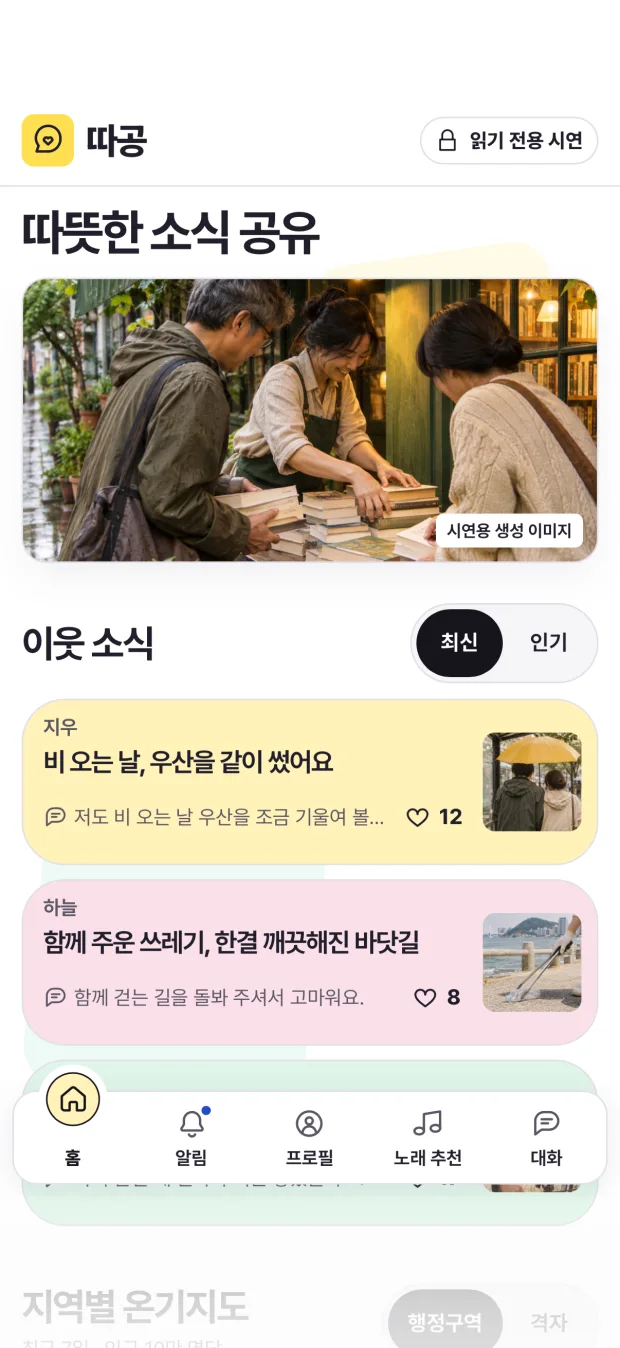
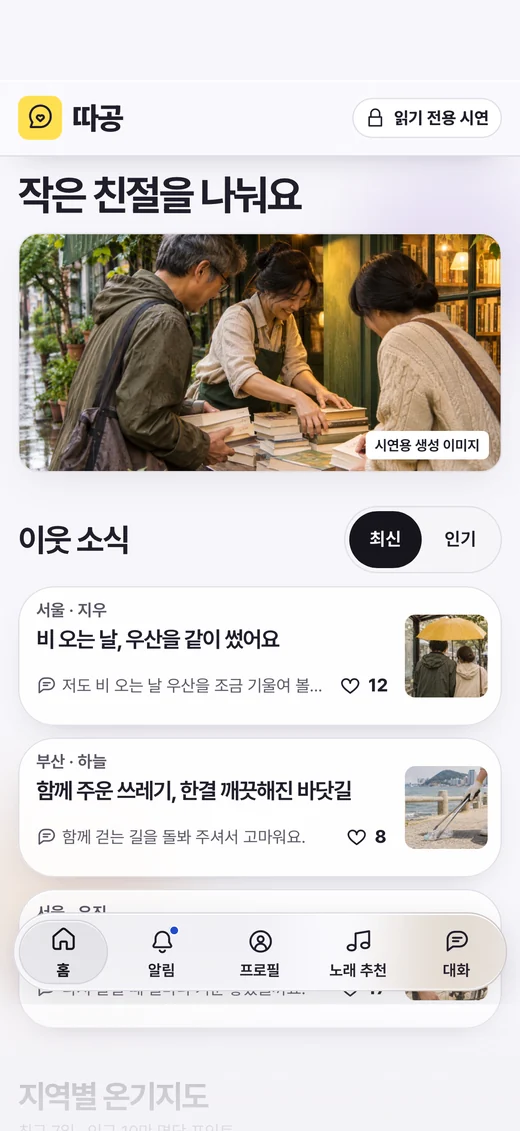
Refresh iPhone screenshots and document final release verification

diff --git a/docs/planning-report.md b/docs/planning-report.md
@@ -105,6 +105,7 @@
 - 로컬 브리지에 연결한 DOM 시험에서 차단·보류·실패 뒤 입력이 유지됐다. 승인 재시도에서는 요청과 게시가 각각 한 건이었고 서울 지도 수치는 0.03에서 0.04로 바뀌었다. 공개 정적 후보 `9c57557`의 익명 접속과 동일 번들의 5개 탭·16개 타일 탐색, 저장소 변경과 심사 요청 각각 0건도 확인했다.
 - 따공 후보 `236c3c5`의 iPhone 17 Pro 시뮬레이터 Safari에서 실제 Codex 승인과 차단을 확인했다. 승인된 글이 한 번 저장되어 서울 수치가 0.03에서 0.04로 바뀌었으며, 차단 뒤에는 입력과 피드·지도가 유지됐다.
 - 공개 후보 `3ff2fbc`는 iPhone 17 Pro Safari에서 홈 아래의 16개 행정경계, 격자 전환, 서울 소식 이동, 다섯 탭, 노래 검색과 외부 재생 링크를 재검증했다. 로컬에서는 실제 Codex 승인·차단, 승인 후 서울 수치 0.03→0.04, 노래 추천 글 승인·카드 반영을 확인했다. 독립 Chrome 검사에서 320px와 글자 200%의 가로 넘침이 없었고, 지도 이름과 숫자를 직접 눌러 대응 지역으로 이동했다.
+- 운영 후보 `64281ba`는 iPhone 17 Pro Safari에서 개나리색 행정경계 SVG, 다섯 탭, LP 꾸미기 미리보기와 브라우저 저장, 시연 프로필 글 세 편, 알림 네 건, 읽기 전용 예시 대화 여섯 개를 확인했다. 로컬에서는 대화가 일곱 개에서 멈췄고, 실제 Codex 승인 후 서울 적립값이 3P에서 4P로, 인구 보정값이 0.03에서 0.04로 바뀌었다. 차단된 소식은 입력을 유지했고 지도에 반영되지 않았다. 익명 접속 파일 13개가 운영 빌드와 일치했고, 독립 Chrome 검사에서 320px·글자 200% 확대, 키보드 이동, LP 꾸미기 설정의 새로고침 후 유지, 동작과 투명도 감소를 검증했다.
 
 ## 후속 제품 실험 제안
 

diff --git a/README.md b/README.md
@@ -31,6 +31,8 @@
 | <img src="docs/images/home.webp" width="175" alt="따공 홈의 최신·인기 소식 카드" /> | <img src="docs/images/admin-map.webp" width="175" alt="실제 행정 경계를 표시하는 따공 온기 지도" /> |
 | **노래 추천** | **로컬 게시 심사** |
 | <img src="docs/images/music.webp" width="175" alt="따공 노래 추천의 LP 카드와 검색" /> | <img src="docs/images/moderation.webp" width="175" alt="로컬 Codex 게시 심사 결과 화면" /> |
+| **예시 대화** | **LP 꾸미기** |
+| <img src="docs/images/chat.webp" width="175" alt="동네 화분을 함께 정리한 이웃과의 예시 대화" /> | <img src="docs/images/lp-editor.webp" width="175" alt="LP 색과 라벨 무늬를 바꾸는 편집기" /> |
 
 | 화면에서 하는 일 | 결과 |
 | --- | --- |
